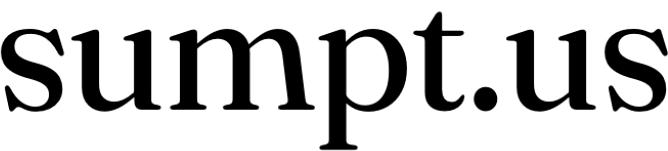
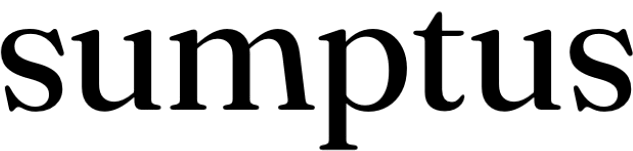
Rename the app to sumptus
The full stop read as a claim to a US connection the app does not have, so
the name loses it.

The wordmark is artwork, not text, so the period had to come out of the
bitmap. build-wordmark.mjs now does it rather than a hand edit: it reads
every glyph back as a run of inked columns, finds the one that is both
narrow and sitting on the baseline instead of reaching into the x-height —
no letter here is both — and closes the space with the median gap the
other letters already use. 35px removed, 668×151 becomes 633×151, and the
letterfit is the face's own rather than a rhythm invented here. Re-running
it against a re-exported source will find the same glyph, because nothing
is addressed by column number.

TEXT_ASPECT follows the new width, and everything measured from it follows
that: the splash's final frame still lands on the static lockup to within
0.02px, without a single coordinate being touched. That is the whole
argument for expressing the stage in em.

The path stays sumpt.us. It is the repository name, not the product name,
and the deploy workflow reads it from GitHub — so renaming the repository
moves the live site on its own, and takes every installed PWA's URL with
it. REPO in vite.config.ts is the local build's copy and changes by hand at
the same moment.

Claude-Session: https://claude.ai/code/session_014TTayRtoCgeJa3VsyWVXUY

diff --git a/src/data/plans.ts b/src/data/plans.ts
@@ -1,7 +1,7 @@
 import type { CurrencyCode } from '@/types'
 
 /**
- * The sumpt.us plans, as one source of truth.
+ * The sumptus plans, as one source of truth.
  *
  * Prices follow the same rule as every other amount in this app: integer minor
  * units, formatted only at the edge. They are quoted in euros regardless of the
@@ -59,11 +59,11 @@ export const FREE_PLAN: Plan = {
  * which most people will never open and nobody should have to scroll past.
  */
 export const PAY_ONCE_SUMMARY =
-  'These plans carry features that allow you to use sumpt.us forever in its core: managing and settling shared expenses.'
+  'These plans carry features that allow you to use sumptus forever in its core: managing and settling shared expenses.'
 
 export const PAY_ONCE_REASONING = [
   'The reason why we designed these plans in this way, is simple.',
-  'We want to allow users that need just that, be able to purchase sumpt.us once and use it as they please.',
+  'We want to allow users that need just that, be able to purchase sumptus once and use it as they please.',
   "Of course you'll still receive the newest social and security features as well.",
   'This makes the permanent plan honest in our opinion.',
   'If you want to support us in the continuous development of cool, new and useful features, consider the Pro plan.',

diff --git a/src/pages/Profile/Profile.tsx b/src/pages/Profile/Profile.tsx
@@ -154,7 +154,7 @@ export default function Profile() {
             description={
               preferences.reduceMotion
                 ? 'Held back while Reduce motion is on.'
-                : 'Plays the sumpt.us clip when the app starts cold.'
+                : 'Plays the sumptus clip when the app starts cold.'
             }
             checked={preferences.playIntro}
             onChange={(checked) => setPreferences({ playIntro: checked })}
@@ -216,7 +216,7 @@ export default function Profile() {
               toast.notice(
                 session
                   ? 'Only groups you share leave this device, and only to the people in them.'
-                  : 'sumpt.us sends nothing anywhere. No accounts, no servers.',
+                  : 'sumptus sends nothing anywhere. No accounts, no servers.',
               )
             }
           />
@@ -252,7 +252,7 @@ export default function Profile() {
           )}
         </div>
         <p className="mt-3 max-w-prose text-[13px] leading-relaxed text-muted">
-          sumpt.us keeps all of this in your browser&rsquo;s local storage. Clearing site data
+          sumptus keeps all of this in your browser&rsquo;s local storage. Clearing site data
           removes it permanently, so export first if it matters.
         </p>
       </section>

diff --git a/vite.config.ts b/vite.config.ts
@@ -16,9 +16,20 @@ import fs from 'node:fs'
  * The deploy workflow sets BASE_PATH explicitly; set it to "/" for a custom
  * domain, where the site is served from the root.
  */
+
+/**
+ * The GitHub repository name, which is what Pages puts in the URL.
+ *
+ * Not the product name — the app is called sumptus and the repository is not,
+ * yet. The deploy workflow reads the real name from GitHub, so this only backs
+ * a production build run by hand; change it when the repository is renamed and
+ * the local build will match the live one again.
+ */
+const REPO = 'sumpt.us'
+
 function resolveBase(command: 'serve' | 'build'): string {
   if (process.env.BASE_PATH) return process.env.BASE_PATH
-  return command === 'serve' ? '/' : '/sumpt.us/'
+  return command === 'serve' ? '/' : `/${REPO}/`
 }
 
 /**
@@ -50,8 +61,8 @@ export default defineConfig(({ command }) => {
       registerType: 'autoUpdate',
       includeAssets: ['icons/favicon.png', 'icons/apple-touch-icon.png'],
       manifest: {
-        name: 'sumpt.us',
-        short_name: 'sumpt.us',
+        name: 'sumptus',
+        short_name: 'sumptus',
         description: 'Shared expenses. Simply.',
         start_url: base,
         scope: base,

diff --git a/src/components/brand/Wordmark.tsx b/src/components/brand/Wordmark.tsx
@@ -2,7 +2,7 @@ import { Mark, MARK_ASPECT } from '@/components/brand/Mark'
 import { cn } from '@/lib/cn'
 
 /** Intrinsic aspect of public/brand/wordmark.png, from scripts/build-wordmark.mjs. */
-export const TEXT_ASPECT = 668 / 151
+export const TEXT_ASPECT = 633 / 151
 
 /**
  * Space between the lettering and the mark, in em. The original artwork set it
@@ -25,7 +25,7 @@ interface WordmarkProps {
 }
 
 /**
- * The sumpt.us lockup: the lettering, then the mark.
+ * The sumptus lockup: the lettering, then the mark.
  *
  * The two are separate assets composed here rather than one baked bitmap, so
  * the mark can also stand alone — as an icon, an avatar, a favicon — and its
@@ -39,7 +39,7 @@ export function Wordmark({ className }: WordmarkProps) {
   return (
     <span
       role="img"
-      aria-label="sumpt.us"
+      aria-label="sumptus"
       className={cn('inline-flex shrink-0 items-center align-middle', className)}
       style={{ gap: `${GAP}em` }}
     >

diff --git a/index.html b/index.html
@@ -6,7 +6,7 @@
       name="viewport"
       content="width=device-width, initial-scale=1, viewport-fit=cover, maximum-scale=5"
     />
-    <title>sumpt.us — Shared expenses. Simply.</title>
+    <title>sumptus — Shared expenses. Simply.</title>
     <meta
       name="description"
       content="Manage expenses with friends, groups and people without doing the math yourself."
@@ -14,7 +14,7 @@
     <meta name="theme-color" content="#FFFFFF" />
     <meta name="apple-mobile-web-app-capable" content="yes" />
     <meta name="apple-mobile-web-app-status-bar-style" content="default" />
-    <meta name="apple-mobile-web-app-title" content="sumpt.us" />
+    <meta name="apple-mobile-web-app-title" content="sumptus" />
     <link rel="icon" type="image/png" sizes="64x64" href="%BASE_URL%icons/favicon.png" />
     <link rel="apple-touch-icon" sizes="180x180" href="%BASE_URL%icons/apple-touch-icon.png" />
 

diff --git a/src/types/index.ts b/src/types/index.ts
@@ -1,5 +1,5 @@
 /**
- * sumpt.us domain model.
+ * sumptus domain model.
  *
  * Money rule: every monetary value in this app is an integer in the currency's
  * minor unit (EUR cents, JPY yen). Nothing here ever holds a float or a
@@ -29,7 +29,7 @@ export interface Category {
   label: string
   /** Lucide icon name, resolved in components/expenses/CategoryIcon. */
   icon: string
-  /** Chart series colour, drawn from the sumpt.us accent palette. */
+  /** Chart series colour, drawn from the sumptus accent palette. */
   color: string
 }
 

diff --git a/src/pages/Friends/Friends.tsx b/src/pages/Friends/Friends.tsx
@@ -101,7 +101,7 @@ export default function Friends() {
         open={addOpen}
         onOpenChange={setAddOpen}
         title="Add friend"
-        description="Just a name — sumpt.us works entirely on this device for now."
+        description="Just a name — sumptus works entirely on this device for now."
         footer={
           <Button full size="lg" onClick={create} disabled={!name.trim()}>
             Add friend

diff --git a/src/components/navigation/AppShell.tsx b/src/components/navigation/AppShell.tsx
@@ -20,7 +20,7 @@ export function AppShell() {
       <div className="shell pt-6 sm:pt-8">
         <Link
           to="/overview"
-          aria-label="sumpt.us — go to overview"
+          aria-label="sumptus — go to overview"
           className="inline-flex rounded-sm text-ink transition-opacity duration-micro hover:opacity-60"
         >
           <Wordmark className="text-[17px]" />

diff --git a/src/lib/calculations/calculations.test.ts b/src/lib/calculations/calculations.test.ts
@@ -16,7 +16,7 @@ import { allocateAcrossGroups } from '@/hooks/useLedger'
 import type { Debt, Expense, PersonBalance, Settlement } from '@/types'
 
 /**
- * These cover the only part of sumpt.us that can be wrong in a way the user
+ * These cover the only part of sumptus that can be wrong in a way the user
  * can't see: the money. Everything asserts on integers in minor units.
  */
 

diff --git a/src/components/ui/ErrorBoundary.tsx b/src/components/ui/ErrorBoundary.tsx
@@ -25,7 +25,7 @@ export class ErrorBoundary extends Component<Props, State> {
 
   componentDidCatch(error: Error, info: ErrorInfo) {
     // Keep the real stack in the console; the UI stays calm.
-    console.error('sumpt.us crashed:', error, info.componentStack)
+    console.error('sumptus crashed:', error, info.componentStack)
   }
 
   render() {

diff --git a/src/components/brand/Mark.tsx b/src/components/brand/Mark.tsx
@@ -10,7 +10,7 @@ interface MarkProps {
 }
 
 /**
- * The sumpt.us mark.
+ * The sumptus mark.
  *
  * Shipped as a CSS mask rather than a picture, so it is painted with
  * `currentColor` and works on white, on navy and on any accent without a

diff --git a/src/components/brand/Splash.tsx b/src/components/brand/Splash.tsx
@@ -299,7 +299,7 @@ function StaticLockup() {
   return (
     <span
       role="img"
-      aria-label="sumpt.us"
+      aria-label="sumptus"
       className="inline-flex items-center"
       style={{ gap: `${GAP}em` }}
     >
